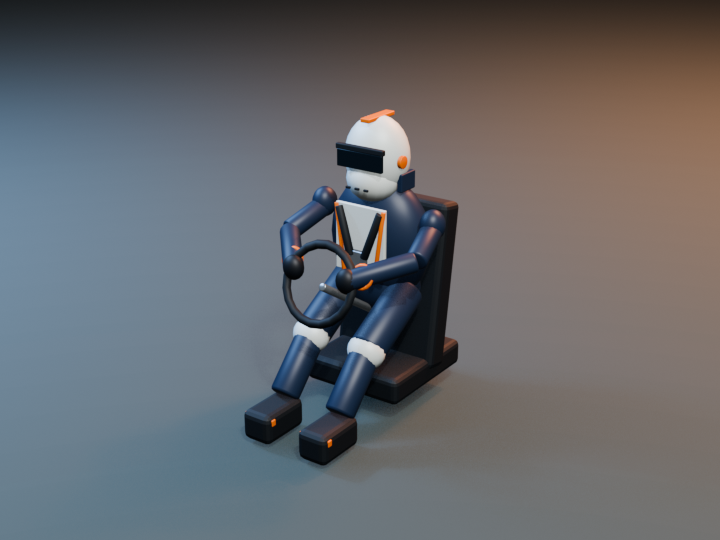
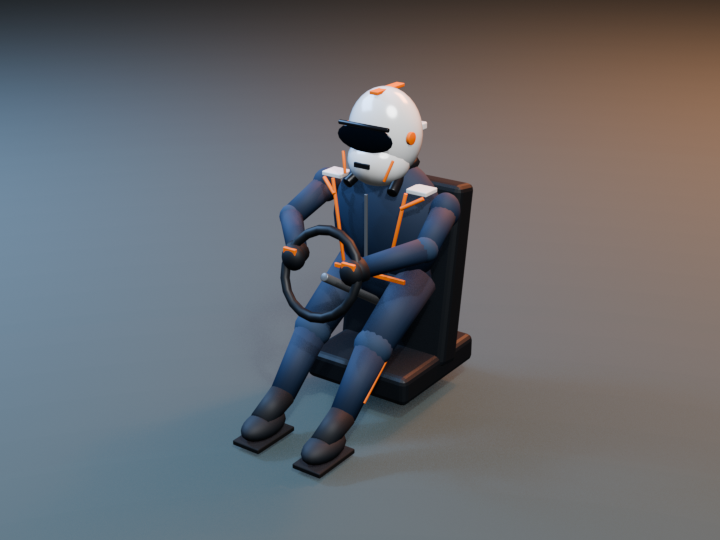
Refine standard driver from F1 safety gear references

Changed region(s): [[0.3056, 0.1481, 0.6722, 0.8889]]

diff --git a/tools/blender/generators/generate_drivers.py b/tools/blender/generators/generate_drivers.py
@@ -7,15 +7,16 @@ import math
 from pathlib import Path
 
 from asset_helpers import (ASSET_PROP, asset_objects, bar, build_rigid_rig,
-                           create_rig_action, cube, cylinder, empty,
+                           cone, create_rig_action, cube, cylinder, empty,
                            export_asset, material, reset_scene, sphere, torus)
+from mathutils import Vector
 
 
 DRIVERS = {
     "standard_driver": {
         "display_name": "Standard Driver",
-        "silhouette": "anonymous helmeted formula racing driver",
-        "shirt": (0.018, 0.035, 0.075, 1),
+        "silhouette": "realistic-proportioned helmeted formula racing driver",
+        "suit": (0.018, 0.035, 0.075, 1),
         "accent": (0.96, 0.22, 0.025, 1),
     },
 }
@@ -25,99 +26,141 @@ REQUIRED = ["driver_root", "root", "head", "arm_L", "arm_R",
             "arm_R_bone"]
 
 
+def tapered_bar(name, start, end, start_radius, end_radius, mat, owner):
+    """Create a low-cost tapered limb segment between two authored points."""
+    start_v, end_v = Vector(start), Vector(end)
+    direction = end_v - start_v
+    obj = cone(name, (start_v + end_v) * 0.5,
+               start_radius, end_radius, direction.length,
+               mat, owner, vertices=16)
+    obj.rotation_mode = "QUATERNION"
+    obj.rotation_quaternion = direction.to_track_quat("Z", "Y")
+    return obj
+
+
 def make_standard_driver(torso, head, arm_l, arm_r, leg_l, leg_r, mats):
-    """Build the anonymous, fully equipped driver shared by every car."""
-    sphere("torso_shell", (0, 0.01, 0.08), (0.245, 0.145, 0.285),
-           mats["shirt"], torso, 20, 12)
-    sphere("waist", (0, 0.015, -0.125), (0.195, 0.125, 0.155),
-           mats["shirt"], torso, 18, 10)
-    cube("chest_panel", (0, -0.139, 0.115), (0.25, 0.018, 0.30),
-         mats["detail"], torso, 0.018)
-    cube("harness_buckle", (0, -0.155, 0.025), (0.080, 0.025, 0.085),
-         mats["metal"], torso, 0.014)
+    """Build a logo-free modern Formula driver in a compact seated pose."""
+    # Close-cut multi-layer overalls: shaped ribcage and waist, high collar,
+    # shoulder epaulettes, front zip and restrained contrast seams. Modern F1
+    # racewear reads as fabric rather than body armour.
+    sphere("torso_shell", (0, 0.012, 0.090), (0.250, 0.142, 0.270),
+           mats["suit"], torso, 22, 14)
+    sphere("waist", (0, 0.020, -0.128), (0.192, 0.118, 0.145),
+           mats["suit"], torso, 18, 10)
+    cylinder("suit_collar", (0, -0.002, 0.350), 0.075, 0.075,
+             mats["suit_detail"], torso, vertices=20, bevel=0.012)
+    cube("suit_zipper", (0, -0.143, 0.105), (0.012, 0.010, 0.270),
+         mats["zipper"], torso, 0.004)
+    cube("waist_seam", (0, -0.120, -0.095), (0.335, 0.012, 0.018),
+         mats["accent"], torso, 0.004)
     for side in (-1, 1):
-        bar(f"suit_piping_{side:+}", (side * 0.120, -0.148, 0.26),
-            (side * 0.078, -0.151, -0.05), 0.010,
+        bar(f"chest_seam_{side:+}", (side * 0.170, -0.126, 0.270),
+            (side * 0.105, -0.147, -0.055), 0.007,
             mats["accent"], torso)
-        bar(f"harness_{side:+}", (side * 0.105, -0.151, 0.25),
-            (side * 0.035, -0.168, 0.045), 0.018,
-            mats["dark"], torso)
-    cylinder("balaclava_neck", (0, 0, 0.365), 0.064, 0.105,
-             mats["dark"], torso, vertices=16, bevel=0.010)
-    torus("hans_collar", (0, 0, 0.325), 0.082, 0.022,
-          mats["dark"], torso, major_segments=18, minor_segments=6)
+        cube(f"shoulder_epaulette_{side:+}",
+             (side * 0.198, -0.060, 0.270),
+             (0.090, 0.082, 0.018), mats["suit_detail"], torso, 0.007)
+        bar(f"shoulder_piping_{side:+}",
+            (side * 0.232, -0.100, 0.255),
+            (side * 0.155, -0.138, 0.210), 0.008,
+            mats["accent"], torso)
 
-    # Full-face helmet: smooth shell, chin bar, smoked visor and simple
-    # center stripe. There is deliberately no face or individual identity.
-    sphere("helmet_shell", (0, 0.0, 0.105), (0.145, 0.128, 0.175),
-           mats["detail"], head, 22, 14)
-    sphere("helmet_chin_guard", (0, -0.030, 0.012),
-           (0.118, 0.108, 0.098), mats["detail"], head, 18, 10)
-    cube("helmet_visor", (0, -0.127, 0.112),
-         (0.225, 0.018, 0.075), mats["glass"], head, 0.018)
-    cube("helmet_visor_brow", (0, -0.125, 0.160),
-         (0.238, 0.023, 0.025), mats["dark"], head, 0.010)
-    cube("helmet_center_stripe", (0, 0.000, 0.272),
-         (0.045, 0.190, 0.018), mats["accent"], head, 0.007)
+    # The black HANS/FHR yoke sits over the shoulders with short forward legs;
+    # it is visually separate from the suit and tucked under the helmet.
+    torus("hans_collar", (0, 0.018, 0.330), 0.094, 0.024,
+          mats["hans"], torso, major_segments=20, minor_segments=6)
     for side in (-1, 1):
-        cylinder(f"helmet_hinge_{side:+}", (side * 0.142, -0.025, 0.105),
-                 0.028, 0.018, mats["accent"], head,
-                 rotation=(0, math.pi / 2, 0), vertices=12, bevel=0.004)
-        cube(f"helmet_side_panel_{side:+}",
-             (side * 0.130, 0.025, 0.010),
-             (0.025, 0.105, 0.080), mats["shirt"], head, 0.009)
-    for x in (-0.045, 0.0, 0.045):
-        cube(f"helmet_vent_{x:+}", (x, -0.148, -0.005),
-             (0.022, 0.010, 0.010), mats["dark"], head, 0.003)
+        bar(f"hans_leg_{side:+}", (side * 0.077, 0.000, 0.325),
+            (side * 0.105, -0.123, 0.258), 0.022,
+            mats["hans"], torso)
 
-    # Long sleeves and gloves keep all skin covered. Hands converge on the
-    # common steering-wheel hard point used by every Formula livery.
+    # Full-face carbon-style helmet. The curved smoke visor, narrow eyeport,
+    # deep chin section, pivot hardware and rear aero lip reproduce the modern
+    # Formula silhouette without copying a driver's personal graphics.
+    sphere("helmet_shell", (0, 0.004, 0.105), (0.150, 0.132, 0.178),
+           mats["helmet"], head, 28, 18)
+    sphere("helmet_chin_guard", (0, -0.037, 0.006),
+           (0.126, 0.116, 0.100), mats["helmet"], head, 22, 12)
+    sphere("helmet_visor", (0, -0.132, 0.113),
+           (0.126, 0.012, 0.055), mats["visor"], head, 24, 10)
+    bar("visor_reinforcement", (-0.112, -0.139, 0.161),
+        (0.112, -0.139, 0.161), 0.009, mats["visor_trim"], head)
+    cube("helmet_center_stripe", (0, 0.015, 0.273),
+         (0.038, 0.185, 0.014), mats["accent"], head, 0.006)
+    cube("helmet_rear_spoiler", (0, 0.128, 0.118),
+         (0.205, 0.035, 0.030), mats["helmet"], head, 0.008)
+    cube("helmet_chin_intake", (0, -0.151, 0.010),
+         (0.070, 0.010, 0.020), mats["visor_trim"], head, 0.004)
+    for side in (-1, 1):
+        cylinder(f"helmet_hinge_{side:+}", (side * 0.143, -0.035, 0.113),
+                 0.025, 0.014, mats["accent"], head,
+                 rotation=(0, math.pi / 2, 0), vertices=16, bevel=0.003)
+        bar(f"helmet_cheek_line_{side:+}",
+            (side * 0.115, -0.112, 0.040),
+            (side * 0.090, -0.135, -0.040), 0.006,
+            mats["accent"], head)
+
+    # Tapered sleeves, subtle elbow folds and gauntlet gloves. Hands converge
+    # on the common steering-wheel hard point shared by all five cars.
     for side, arm in ((-1, arm_l), (1, arm_r)):
-        sphere(f"shoulder_{side:+}", (0, 0, 0.070),
-               (0.055, 0.060, 0.068), mats["shirt"], arm, 16, 10)
-        elbow = (side * 0.045, -0.195, -0.020)
-        hand = (-side * 0.145, -0.410, -0.080)
-        bar(f"upper_arm_{side:+}", (0, 0, 0.055), elbow,
-            0.047, mats["shirt"], arm)
-        bar(f"forearm_{side:+}", elbow, hand, 0.044,
-            mats["shirt"], arm)
-        sphere(f"glove_{side:+}", hand, (0.048, 0.040, 0.054),
+        shoulder = (0, 0, 0.065)
+        elbow = (side * 0.035, -0.190, -0.025)
+        wrist = (-side * 0.128, -0.360, -0.082)
+        hand = (-side * 0.145, -0.405, -0.090)
+        sphere(f"shoulder_{side:+}", shoulder,
+               (0.058, 0.061, 0.070), mats["suit"], arm, 16, 10)
+        tapered_bar(f"upper_arm_{side:+}", shoulder, elbow,
+                    0.052, 0.046, mats["suit"], arm)
+        sphere(f"elbow_fold_{side:+}", elbow,
+               (0.049, 0.046, 0.050), mats["suit_shadow"], arm, 14, 8)
+        tapered_bar(f"forearm_{side:+}", elbow, wrist,
+                    0.046, 0.039, mats["suit"], arm)
+        tapered_bar(f"glove_cuff_{side:+}", wrist, hand,
+                    0.049, 0.043, mats["gloves"], arm)
+        sphere(f"glove_{side:+}", hand, (0.049, 0.039, 0.051),
                mats["gloves"], arm, 16, 10)
-        torus(f"glove_cuff_{side:+}",
-              tuple(elbow[index] * 0.22 + hand[index] * 0.78
-                    for index in range(3)),
-              0.047, 0.009, mats["accent"], arm,
-              rotation=(math.radians(68), 0, 0),
-              major_segments=16, minor_segments=6)
+        cube(f"glove_top_panel_{side:+}",
+             (hand[0], hand[1] - 0.020, hand[2] + 0.022),
+             (0.058, 0.014, 0.045), mats["accent"], arm, 0.006)
 
+    # The legs keep a realistic pedal-box bend. Boots are slim, flat-soled
+    # fireproof driving shoes rather than the square blocks from the first pass.
     for side, leg in ((-1, leg_l), (1, leg_r)):
-        knee = (0, -0.305, -0.105)
-        ankle = (0, -0.500, -0.315)
-        bar(f"thigh_{side:+}", (0, 0, 0.075), knee,
-            0.082, mats["shirt"], leg)
-        bar(f"shin_{side:+}", knee, ankle, 0.066,
-            mats["shirt"], leg)
-        sphere(f"knee_panel_{side:+}", knee, (0.086, 0.072, 0.078),
-               mats["detail"], leg, 16, 10)
-        cube(f"boot_{side:+}", (0, -0.575, -0.390),
-             (0.145, 0.245, 0.135), mats["dark"], leg, 0.045)
-        cube(f"boot_stripe_{side:+}", (0, -0.660, -0.355),
-             (0.150, 0.025, 0.030), mats["accent"], leg, 0.010)
+        hip = (0, 0, 0.075)
+        knee = (0, -0.300, -0.105)
+        ankle = (0, -0.500, -0.310)
+        toe = (0, -0.635, -0.370)
+        tapered_bar(f"thigh_{side:+}", hip, knee,
+                    0.086, 0.072, mats["suit"], leg)
+        sphere(f"knee_panel_{side:+}", knee,
+               (0.078, 0.070, 0.076), mats["suit_shadow"], leg, 16, 10)
+        tapered_bar(f"shin_{side:+}", knee, ankle,
+                    0.068, 0.052, mats["suit"], leg)
+        tapered_bar(f"boot_ankle_{side:+}", ankle, toe,
+                    0.053, 0.046, mats["boots"], leg)
+        sphere(f"boot_{side:+}", (0, -0.620, -0.390),
+               (0.064, 0.112, 0.050), mats["boots"], leg, 18, 10)
+        cube(f"boot_sole_{side:+}", (0, -0.620, -0.438),
+             (0.128, 0.220, 0.020), mats["sole"], leg, 0.006)
+        bar(f"leg_piping_{side:+}",
+            (side * 0.060, -0.080, 0.035),
+            (side * 0.052, -0.438, -0.270), 0.007,
+            mats["accent"], leg)
 
 
 def add_standard_driver_preview_context(mats):
     """Add a non-exported seat and wheel so the authored pose reads clearly."""
     seat_back = cube("PREVIEW_seat_back", (0, 0.115, -0.015),
-                     (0.42, 0.10, 0.62), mats["dark"], bevel=0.065)
+                     (0.42, 0.10, 0.62), mats["preview_dark"], bevel=0.065)
     seat_back.rotation_euler.x = math.radians(-8)
     seat_base = cube("PREVIEW_seat_base", (0, 0.035, -0.325),
-                     (0.40, 0.44, 0.10), mats["dark"], bevel=0.045)
+                     (0.40, 0.44, 0.10), mats["preview_dark"], bevel=0.045)
     wheel = torus("PREVIEW_steering_wheel", (0, -0.355, 0.105),
-                  0.135, 0.016, mats["dark"],
+                  0.135, 0.016, mats["preview_dark"],
                   rotation=(math.radians(68), 0, 0),
                   major_segments=20, minor_segments=6)
     column = bar("PREVIEW_steering_column", (0, -0.34, 0.09),
-                 (0, -0.04, -0.10), 0.014, mats["metal"])
+                 (0, -0.04, -0.10), 0.014, mats["zipper"])
     for obj in (seat_back, seat_base, wheel, column):
         obj[ASSET_PROP] = False
 
@@ -126,16 +169,30 @@ def build_driver(slug: str):
     reset_scene()
     spec = DRIVERS[slug]
     mats = {
-        "shirt": material(f"{slug}_shirt", spec["shirt"], roughness=0.44),
-        "accent": material(f"{slug}_accent", spec["accent"], metallic=0.06, roughness=0.38),
-        "detail": material(f"{slug}_detail", (0.82, 0.88, 0.84, 1),
-                           metallic=0.04, roughness=0.46),
-        "dark": material(f"{slug}_dark", (0.012, 0.016, 0.02, 1), roughness=0.62),
-        "metal": material(f"{slug}_metal", (0.40, 0.45, 0.48, 1), metallic=0.72, roughness=0.22),
-        "glass": material(f"{slug}_glass", (0.008, 0.018, 0.028, 1),
-                          metallic=0.28, roughness=0.10),
+        "suit": material(f"{slug}_suit", spec["suit"], roughness=0.72),
+        "suit_detail": material(f"{slug}_suit_detail", (0.76, 0.80, 0.82, 1),
+                                roughness=0.70),
+        "suit_shadow": material(f"{slug}_suit_shadow", (0.028, 0.055, 0.105, 1),
+                                roughness=0.76),
+        "accent": material(f"{slug}_accent", spec["accent"], roughness=0.55),
+        "zipper": material(f"{slug}_zipper", (0.18, 0.20, 0.22, 1),
+                           metallic=0.38, roughness=0.34),
+        "hans": material(f"{slug}_hans", (0.010, 0.012, 0.016, 1),
+                         roughness=0.32),
+        "helmet": material(f"{slug}_helmet", (0.88, 0.90, 0.91, 1),
+                           metallic=0.08, roughness=0.19),
+        "visor": material(f"{slug}_visor", (0.006, 0.012, 0.020, 1),
+                          metallic=0.45, roughness=0.08),
+        "visor_trim": material(f"{slug}_visor_trim", (0.025, 0.028, 0.032, 1),
+                               metallic=0.48, roughness=0.20),
         "gloves": material(f"{slug}_gloves", (0.010, 0.013, 0.018, 1),
-                           roughness=0.52),
+                           roughness=0.62),
+        "boots": material(f"{slug}_boots", (0.014, 0.018, 0.024, 1),
+                          roughness=0.66),
+        "sole": material(f"{slug}_sole", (0.004, 0.005, 0.006, 1),
+                         roughness=0.82),
+        "preview_dark": material(f"{slug}_preview_dark", (0.010, 0.013, 0.017, 1),
+                                 roughness=0.52),
     }
     driver_root = empty("driver_root")
     driver_root["asset_id"] = f"formula_buggy.driver.{slug}"
@@ -222,17 +279,17 @@ def main():
             "type": "driver",
             "display_name": spec["display_name"],
             "silhouette": spec["silhouette"],
-            "design_style": "standard helmeted human",
+            "design_style": "realistic modern formula driver",
             "target_seated_pose_height_m": 1.1,
-            "target_dimensions_m": {"width_x": 0.65, "depth_y": 0.66,
-                                    "seated_height_z": 1.1},
+            "target_dimensions_m": {"width_x": 0.60, "depth_y": 0.72,
+                                    "seated_height_z": 1.05},
             "attachment": {"driver_origin": "pelvis", "vehicle_bone": "seat_anchor"},
             "animation_clips": {"idle": [1, 32], "accelerate": [40, 54],
                                 "brake": [60, 74], "turn_left": [80, 100],
                                 "turn_right": [80, 100]},
         }
-        camera = (2.15, -3.15, 1.55)
-        target = (0, -0.12, 0.08)
+        camera = (1.95, -2.90, 1.42)
+        target = (0, -0.15, 0.05)
         export_asset(args.output_root / slug, slug, metadata, REQUIRED,
                      camera, target)
 

diff --git a/tools/blender/generators/verify_assets.py b/tools/blender/generators/verify_assets.py
@@ -124,8 +124,8 @@ def validate_manifest(path: Path, kind: str, slug: str, triangle_limit: int) -> 
     else:
         require(manifest.get("display_name") == "Standard Driver",
                 f"unexpected driver identity: {path}")
-        require(manifest.get("design_style") == "standard helmeted human",
-                f"driver is not the standard helmeted design: {path}")
+        require(manifest.get("design_style") == "realistic modern formula driver",
+                f"driver is not the realistic modern formula design: {path}")
     return manifest
 
 
@@ -171,8 +171,9 @@ def validate_asset(root: Path, kind: str, slug: str, spec: dict) -> str:
         require(not missing_formula_nodes,
                 f"missing formula components {sorted(missing_formula_nodes)}: {paths['glb']}")
     else:
-        standard_nodes = {"helmet_shell", "helmet_visor", "glove_-1",
-                          "glove_+1", "boot_-1", "boot_+1"}
+        standard_nodes = {"helmet_shell", "helmet_visor", "hans_collar",
+                          "suit_zipper", "glove_-1", "glove_+1",
+                          "boot_-1", "boot_+1"}
         missing_standard_nodes = standard_nodes - node_names
         require(not missing_standard_nodes,
                 f"missing standard driver equipment {sorted(missing_standard_nodes)}: {paths['glb']}")

diff --git a/README.md b/README.md
@@ -82,8 +82,9 @@ them.
   logo-free liveries: Marc, Fiery, MacL, RB, and Dash. Every livery shares the
   same front and rear wings, connected exposed suspension, sidepods, open
   cockpit, halo, diffuser, dimensions, hard points, and gameplay specification
-- One Blender-authored Standard Driver shared by every car, with a full race
-  suit, gloves, boots, closed helmet, smoked visor, and the common animation rig
+- One realistic-proportioned Blender-authored Standard Driver shared by every
+  car, with fitted overalls, gauntlet gloves, driving boots, HANS-style collar,
+  closed helmet, smoked visor, and the common animation rig
 - No powerups and no character super powers
 - Blender-authored circuit worlds with medium-gray tarmac, continuous track
   limits, driveable curbs and runoff, collision-aligned safety walls, catch